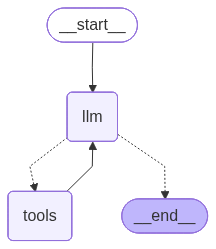
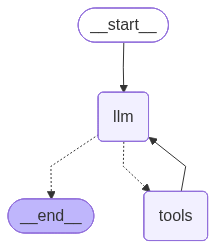
Adding memory to ReAct agent using graph

diff --git a/graph.js b/graph.js
@@ -4,14 +4,20 @@ Build the graph
 Invoke the agent
 Add the memory
  */
-
+import readline from 'node:readline/promises';
 import { ChatGroq } from "@langchain/groq";
 import { tool } from "langchain"
 import { TavilySearch } from "@langchain/tavily";
 import { ToolNode } from "@langchain/langgraph/prebuilt";
-import { MessagesAnnotation, StateGraph } from "@langchain/langgraph";
+import { MessagesAnnotation, StateGraph, END } from "@langchain/langgraph";
 import * as z from "zod";
 import { printGraph } from "./utils.js";
+import { MemorySaver } from "@langchain/langgraph";
+
+/** 
+ * Memory
+ */
+const checkpointer = new MemorySaver();
 
 /** Tools */
 const search = new TavilySearch({
@@ -56,13 +62,13 @@ async function callModel(state) {
     const response = await llm.invoke(state.messages);
     // console.log("Response in callModel: ", response);
 
-    return {messages: [response]};
+    return { messages: [response] };
 }
 
 /**
  * Conditional Edge
  */
-function shouldContinue(state){
+function shouldContinue(state) {
 
     /**
      * Here we can control the flow as per usecase, applying the guardrails, handling security, etc
@@ -74,7 +80,7 @@ function shouldContinue(state){
     // console.log("messages: ", state.messages);
     const lastMessage = state.messages[state.messages.length - 1];
 
-    if(lastMessage.tool_calls?.length){
+    if (lastMessage.tool_calls?.length) {
         return 'tools';
     }
 
@@ -82,26 +88,42 @@ function shouldContinue(state){
 }
 
 const graph = new StateGraph(MessagesAnnotation)
-.addNode("llm", callModel)
-.addNode("tools", toolNode)
-.addEdge("__start__", "llm")
-.addEdge("tools", "llm")
-.addConditionalEdges("llm", shouldContinue)
+    .addNode("llm", callModel)
+    .addNode("tools", toolNode)
+    .addEdge("__start__", "llm")
+    .addEdge("tools", "llm")
+    .addConditionalEdges("llm", shouldContinue, {
+        __end__: END,
+        tools: 'tools'
+    })
 
-const app = graph.compile();
+const app = graph.compile({ checkpointer });
 
-async function main(){
+async function main() {
+    const config = { configurable: { thread_id: "1" } };
 
     /** Print the graph */
     await printGraph(app, './customGraph.png');
-    const result = await app.invoke({
-        messages: [{role: 'user', content: 'What is the current weather in Moscow?'}]
-    })
 
-    const message = result.messages;
-    const final = message[message.length - 1];
+    /**Take user input */
+    const rl = readline.createInterface({ input: process.stdin, output: process.stdout })
+    while (true) {
+        const userInput = await rl.question("You: ");
+        if (userInput === '/bye') {
+            break;
+        }
 
-    console.log("AI: ", final.content)
+        const result = await app.invoke({
+            messages: [{ role: 'user', content: userInput }]
+        }, config)
+
+        const message = result.messages;
+        const final = message[message.length - 1];
+
+        console.log("AI: ", final.content)
+    }
+
+    rl.close();
 
 }
 
